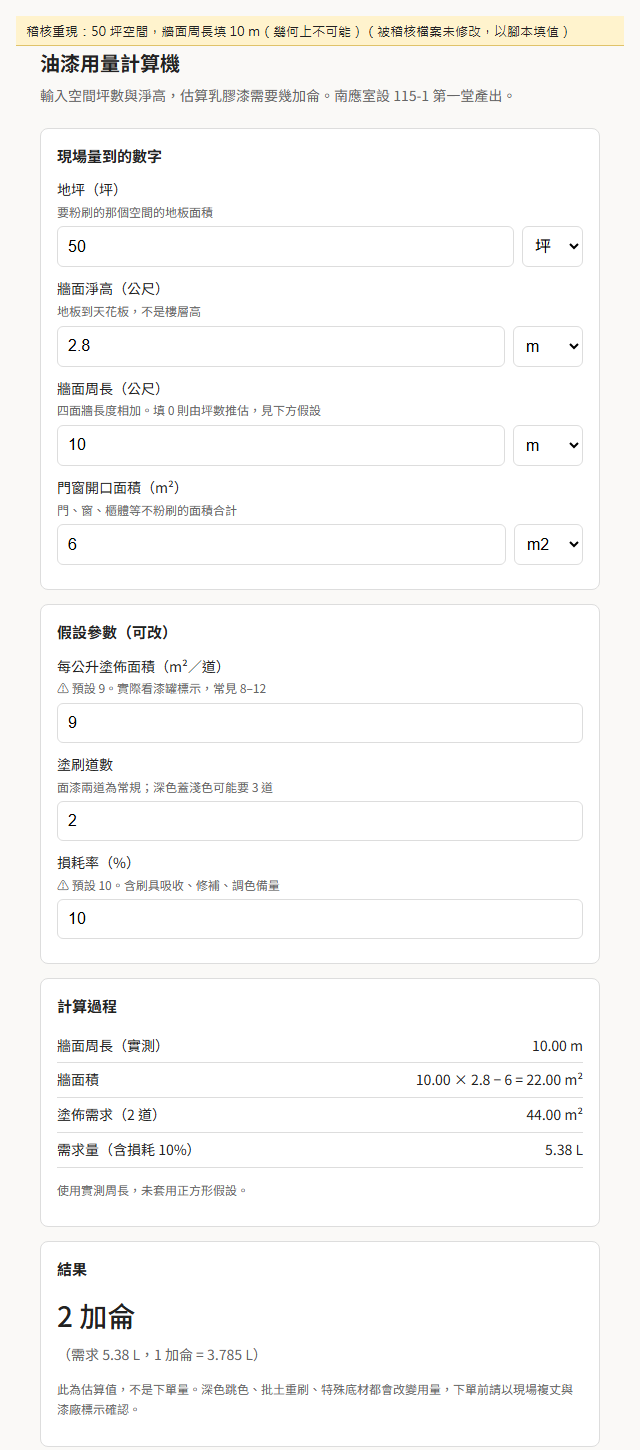
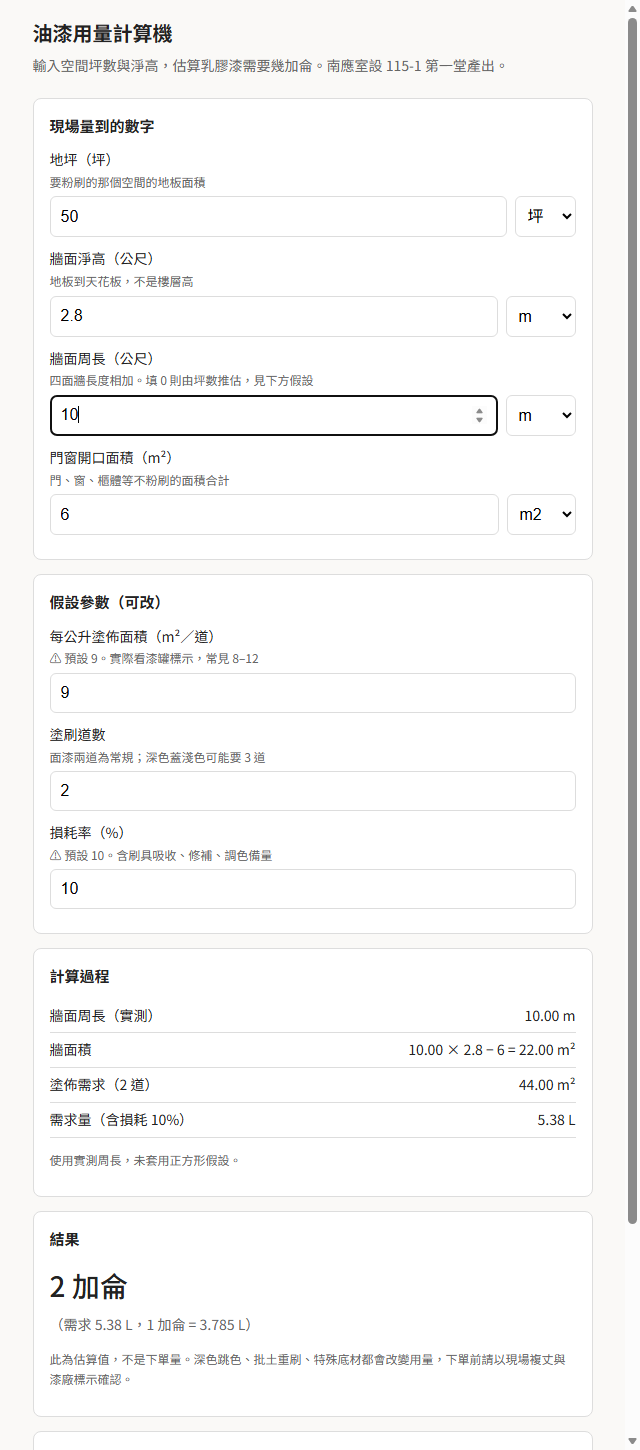
20261003 A14530026: 交叉稽核截圖改為直接操作原始檔案取得
以 CDP 模擬鍵盤輸入與下拉選單對原檔截圖，取代先前以腳本填值複本的版本；被稽核檔案未修改

diff --git a/20261003/students/A14530026_王品洋/稽核報告-交叉-黃建升.md b/20261003/students/A14530026_王品洋/稽核報告-交叉-黃建升.md
@@ -7,10 +7,10 @@
   （引擎 `interior-calc-builder/scripts/公式.js`，經比對與 HTML 內嵌的引擎逐字相同，沒有版本漂移）
 - 日期：2026-10-03
 
-> **規則**：對方工具只跑不改。截圖是用腳本在載入頁面後填值、再用 Edge headless 截下的畫面；
-> 被稽核的檔案本身沒有任何修改（頁面頂端的黃色橫幅是稽核方加的標註，不屬於對方工具）。
-> **追加（第二輪）**：#6、#7 是用**真實檔案**在瀏覽器裡只靠鍵盤輸入與下拉選單重現的，沒有任何注入或修改；
-> 截圖則用腳本填值的複本留存。
+> **規則**：對方工具只跑不改。**所有截圖 003～009 都是直接操作原始檔案**：
+> 用 Edge 的遠端除錯介面開啟 `油漆用量計算機.html`，模擬鍵盤輸入（點進欄位、全選、打字）與下拉選單，
+> 再對畫面截圖，沒有注入腳本、沒有複本、沒有任何標註；被稽核檔案內容未修改（以 git 比對確認）。
+> 每張截圖的操作步驟都寫在對應的發現底下，照著做就能重現。
 > 對方已有 8 套測試全過、第三方稽核 24/24。為避免重複，我**避開課程壞值清單**
 > （0／負數／空白／非數字／極大值，他已經掃過 105 格），改從「語意」與「組合」攻擊。
 
